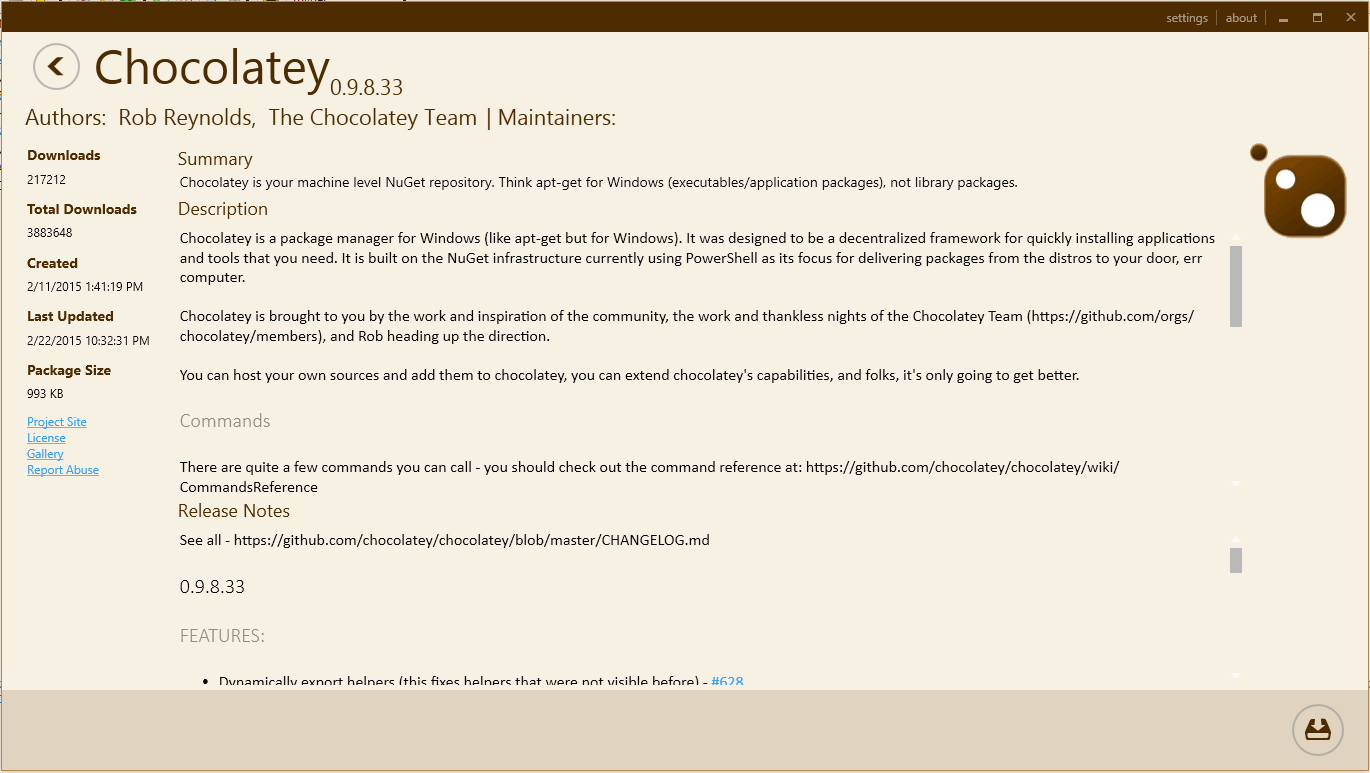
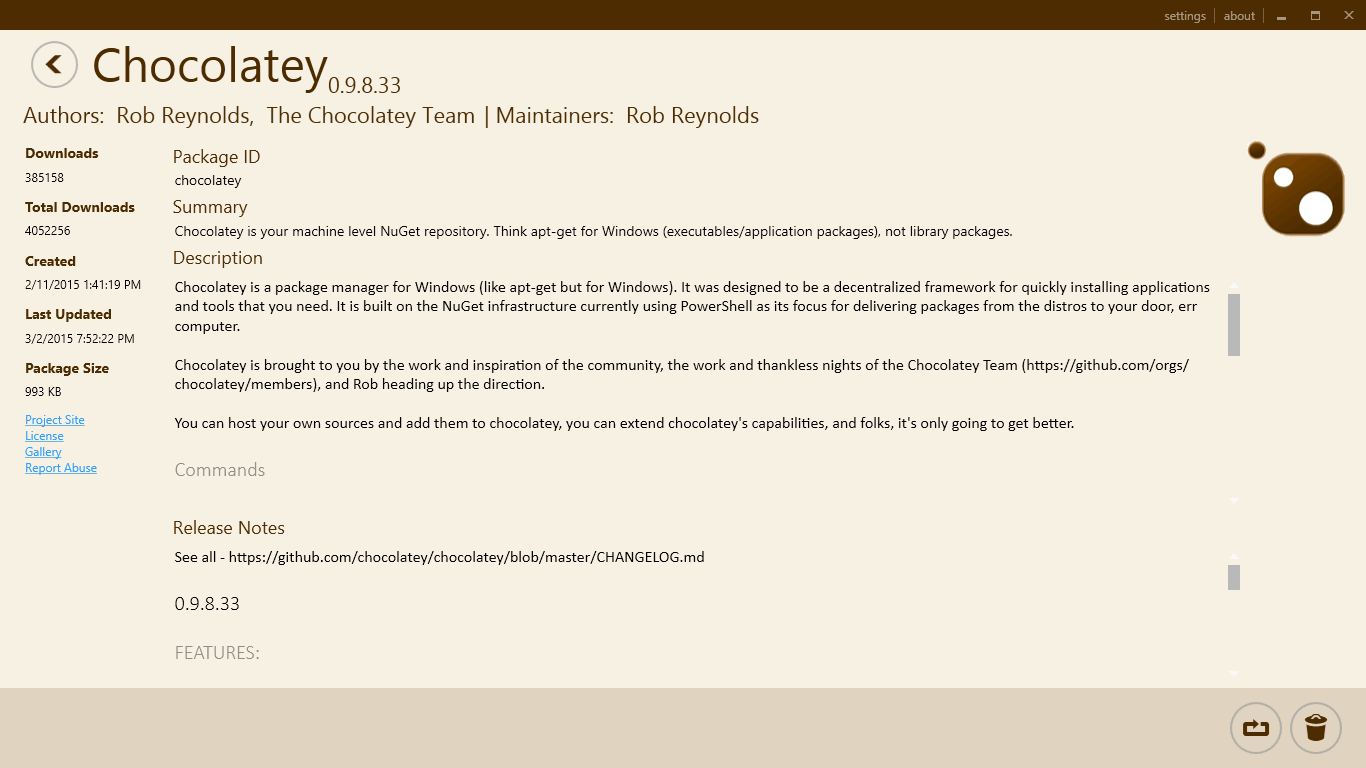
(GH-224) Added ID to package details View
- Included the Package Id property to the package details view.  This is
especially useful if you need the ability to drop to the command line to
do something
- Updated screenshot of Package Details Screen to reflect new addition.

diff --git a/Source/ChocolateyGui/Views/Controls/PackageControl.xaml b/Source/ChocolateyGui/Views/Controls/PackageControl.xaml
@@ -87,27 +87,31 @@
                 <RowDefinition Height="Auto"/>
                 <RowDefinition Height="Auto"/>
                 <RowDefinition Height="Auto"/>
+                <RowDefinition Height="Auto"/>
+                <RowDefinition Height="Auto"/>
                 <RowDefinition Height="5*"/>
                 <RowDefinition Height="Auto"/>
                 <RowDefinition Height="Auto"/>
                 <RowDefinition Height="3*"/>
             </Grid.RowDefinitions>
-            <TextBlock Text="Summary" Style="{StaticResource SectionHeaderTextStyle}" Visibility="{Binding Summary, Converter={StaticResource NullToVisibility}}"/>
-            <TextBlock Grid.Row="1" Text="{Binding Summary}" ScrollViewer.CanContentScroll="True" TextWrapping="Wrap" Style="{StaticResource PageTextBlockStyle}" Visibility="{Binding Summary, Converter={StaticResource NullToVisibility}}"/>
-            <TextBlock Grid.Row="2" Text="Description" Style="{StaticResource SectionHeaderTextStyle}"/>
+            <TextBlock Grid.Row="0" Text="Package ID" Style="{StaticResource SectionHeaderTextStyle}" Visibility="{Binding Id, Converter={StaticResource NullToVisibility}}"/>
+            <TextBlock Grid.Row="1" Text="{Binding Id}" ScrollViewer.CanContentScroll="True" TextWrapping="Wrap" Style="{StaticResource PageTextBlockStyle}" Visibility="{Binding Id, Converter={StaticResource NullToVisibility}}"/>
+            <TextBlock Grid.Row="2" Text="Summary" Style="{StaticResource SectionHeaderTextStyle}" Visibility="{Binding Summary, Converter={StaticResource NullToVisibility}}"/>
+            <TextBlock Grid.Row="3" Text="{Binding Summary}" ScrollViewer.CanContentScroll="True" TextWrapping="Wrap" Style="{StaticResource PageTextBlockStyle}" Visibility="{Binding Summary, Converter={StaticResource NullToVisibility}}"/>
+            <TextBlock Grid.Row="4" Text="Description" Style="{StaticResource SectionHeaderTextStyle}"/>
             <FlowDocumentScrollViewer 
                                     Name="AvailablePackageDescription" AutomationProperties.Name="Package Description"
-                                    Grid.Row="3"
+                                    Grid.Row="5"
                                   VerticalAlignment="Stretch"
                                   HorizontalAlignment="Stretch"
                                   Margin="5"
                                   Document="{Binding Description, Converter={StaticResource TextToFlowDocumentConverter}, IsAsync=True}"/>
-            <StackPanel Grid.Row="4" Visibility="{Binding Dependencies, Converter={StaticResource NullToVisibility}}">
+            <StackPanel Grid.Row="6" Visibility="{Binding Dependencies, Converter={StaticResource NullToVisibility}}">
                 <TextBlock Text="Dependencies" Style="{StaticResource SectionHeaderTextStyle}"/>
                 <TextBlock Text="{Binding Dependencies, Converter={StaticResource PackageDependenciesToString}}"  Margin="5" Style="{StaticResource PageTextBlockStyle}" AutomationProperties.Name="Package Dependencies"/>
             </StackPanel>
-            <TextBlock Grid.Row="5" Text="Release Notes" Style="{StaticResource SectionHeaderTextStyle}" Visibility="{Binding ReleaseNotes, Converter={StaticResource NullToVisibility}}"/>
-            <FlowDocumentScrollViewer Grid.Row="6"
+            <TextBlock Grid.Row="7" Text="Release Notes" Style="{StaticResource SectionHeaderTextStyle}" Visibility="{Binding ReleaseNotes, Converter={StaticResource NullToVisibility}}"/>
+            <FlowDocumentScrollViewer Grid.Row="8"
                                 Name="AvailablePackageReleaseNotes" AutomationProperties.Name="Package Release Notes"
                                 VerticalAlignment="Stretch" HorizontalAlignment="Stretch"
                                 Margin="5" Visibility="{Binding ReleaseNotes, Converter={StaticResource NullToVisibility}}"
